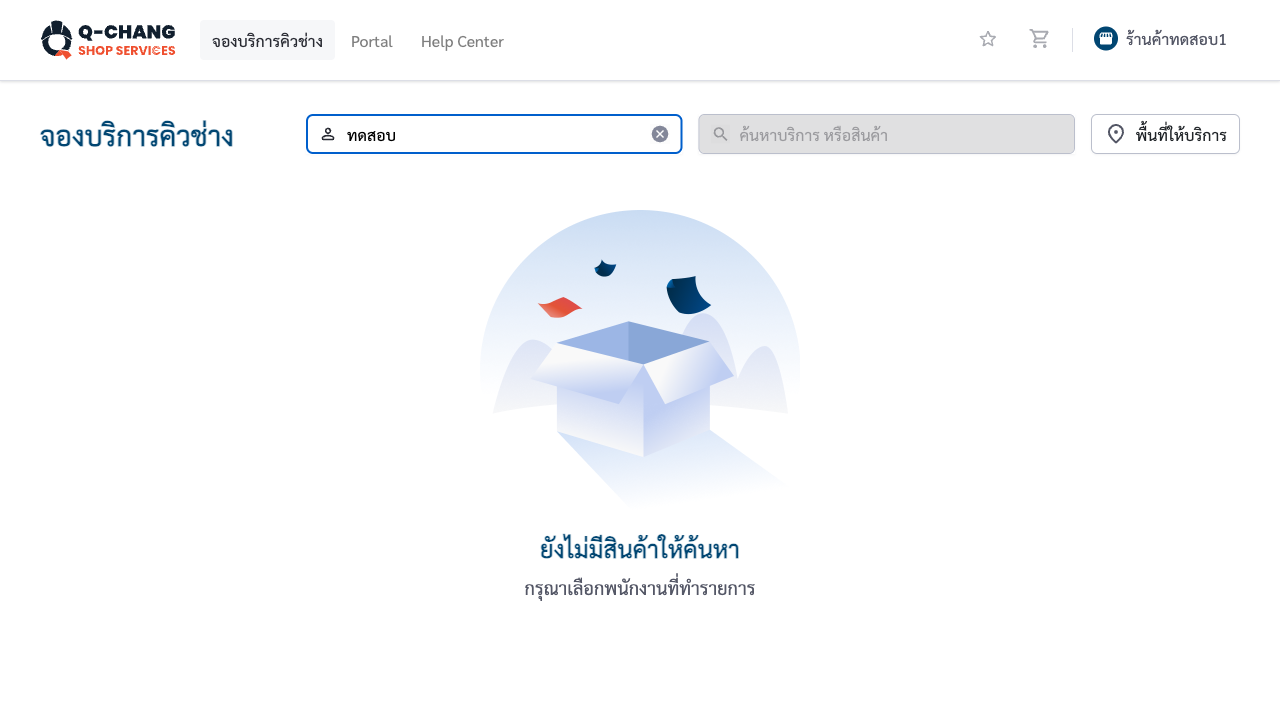
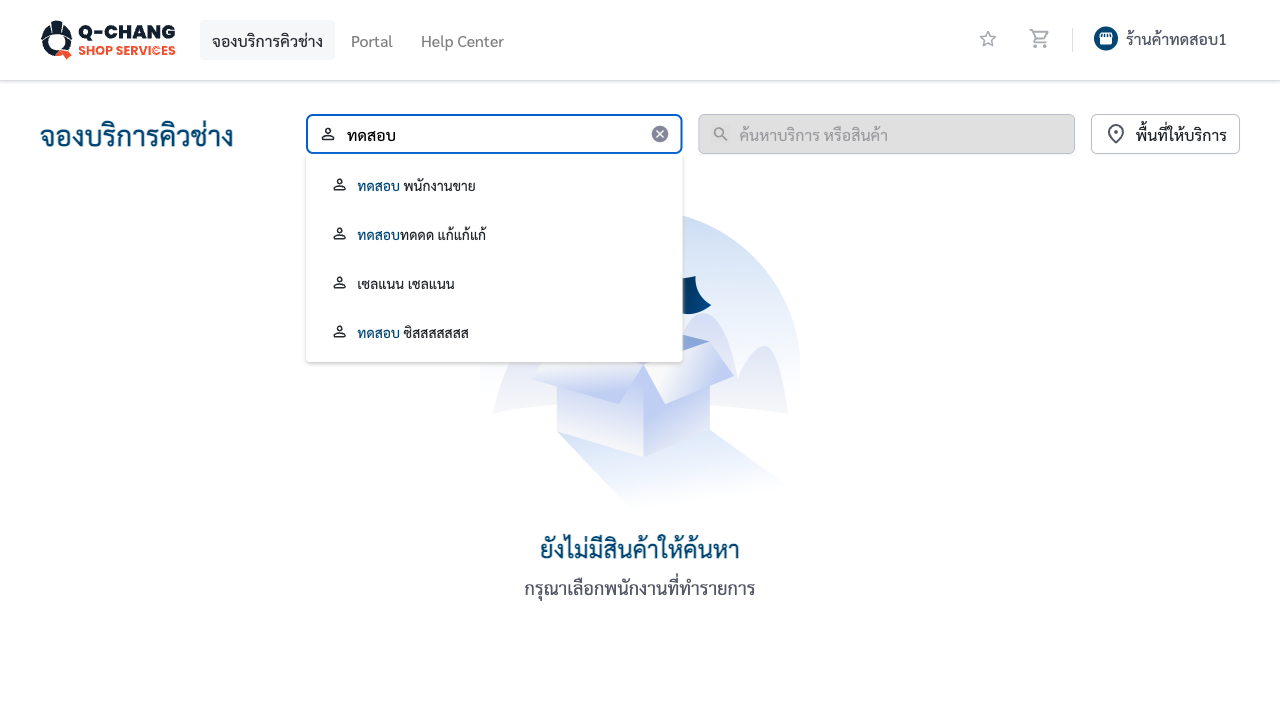
add more keyword for create order

diff --git a/playwright-report/index.html b/playwright-report/index.html
@@ -68,4 +68,4 @@ Error generating stack: `+l.message+`
   </body>
 </html>
 <script>
[2 lines of base64/hex data omitted]

diff --git a/keyword/commonkeyword.js b/keyword/commonkeyword.js
@@ -20,18 +20,17 @@ async function login(page,username, password) {
 }
 
 async function empSearch(page,empName) {
-    const searchText = empName;
+    const searchText = empName
     const input = page.locator('#__layout > div > div.d-flex.justify-content-center > div > div > div > div:nth-child(1) > div > div > div:nth-child(2) > div > div:nth-child(1) > div > div > div > input');
     await input.waitFor({ state: 'visible' }); // Wait for visibility
     // Fill the input field with text
+    await page.waitForTimeout(2000);
     await input.focus();
     await input.click();
     await input.type(searchText, { delay: 500 });
-    await page.waitForTimeout(5000);
-    //await page.pause();
     await page.screenshot({ path: 'searchEmp.png', fullPage: true });
     const element = page.locator('.search-autofill-list > div:nth-child(2)');
-    //Click the first matching element
+    // //Click the first matching element
     await element.first().click();
     await page.waitForTimeout(1000);
     console.log('Screenshot saved as searchEmp.png');
@@ -45,9 +44,58 @@ async function productSearch(page,productname) {
     await input.click();
     await input.type(searchText, { delay: 500 });
 }
+
+async function searchArea(page,area) {
+    const searchText = area;
+    await page.getByText('พื้นที่ให้บริการ').click();
+    await page.locator('#sidebar-right').press('CapsLock');
+    await page.getByPlaceholder('กรุณาระบุจังหวัด').click();
+    await page.getByPlaceholder('กรุณาระบุจังหวัด').fill(searchText);
+    await page.locator('#vs3__option-0').getByText(searchText).click();
+    await page.locator('#sidebar-right').getByRole('button').click();
+}
+
+async function addProduct(page) {
+    await page.waitForTimeout(1000);
+    await page.getByRole('link', { name: 'งานติดตั้ง บริการล้างเครื่องซักผ้าฝาบนอัตโนมัติ <= 15 kg ฿890 / เครื่อง' }).click();
+    await page.locator('#cart-button-content').getByRole('img').click();
+    await page.getByRole('link', { name: '1', exact: true }).click();
+}
+async function customerAddress(page,province) {
+    await page.getByRole('button', { name: 'เลือกวันรับบริการ' }).click();
+    await page.waitForTimeout(1000);
+    await page.getByPlaceholder('กรุณาระบุ เขต/อำเภอ, แขวง/ตำบล, จังหวัด, ฯลฯ').click();
+    await page.getByPlaceholder('กรุณาระบุ เขต/อำเภอ, แขวง/ตำบล, จังหวัด, ฯลฯ').fill(province);
+    await page.getByRole('option', { name: 'อ่างทอง > สามโก้ > ราษฎรพัฒนา >' }).click();
+    await page.locator('[id="__BVID__194"]').selectOption('2');
+}
+
+async function start_date(date,time) {
+    await page.locator('[id="__BVID__194"]').selectOption(time);
+    await page.getByText(date, { exact: true }).click();
+    
+}
+
+async function customer_detail(name,lastname,mobile,email) {
+    await page.getByPlaceholder('ชื่อ').click();
+    await page.getByPlaceholder('ชื่อ').fill(name);
+    await page.getByPlaceholder('นามสกุล').click();
+    await page.getByPlaceholder('นามสกุล').fill(lastname);
+    await page.locator('#mobile').click();
+    await page.locator('#mobile').fill(mobile);
+    await page.getByPlaceholder('xxx@gmail.com, etc.').click();
+    await page.getByPlaceholder('xxx@gmail.com, etc.').fill(email);
+    
+}
+
+
 module.exports = {
     login,
     productSearch,
-    empSearch
-
+    empSearch,
+    searchArea,
+    addProduct,
+    customerAddress,
+    start_date,
+    customer_detail
 };

diff --git a/tests/add-to-cart.spec.js b/tests/add-to-cart.spec.js
@@ -4,4 +4,9 @@ test('Successful add to cart', async ({ page }) => {
     await keywords.login(page, 'fangcms4', '12345678t');
     await keywords.empSearch(page, 'ทดสอบ');
     await keywords.productSearch(page, 'เครื่องซักผ้า\n');
+    await keywords.searchArea(page, 'อ่างทอง');
+    await keywords.addProduct(page);
+    await keywords.customerAddress('อ่างทอง');
+    await keywords.start_date('25','2');
+    await keywords.customer_detail('qatest','qalastname','0627504107','piggienunoo24@gmail.com')
 });
